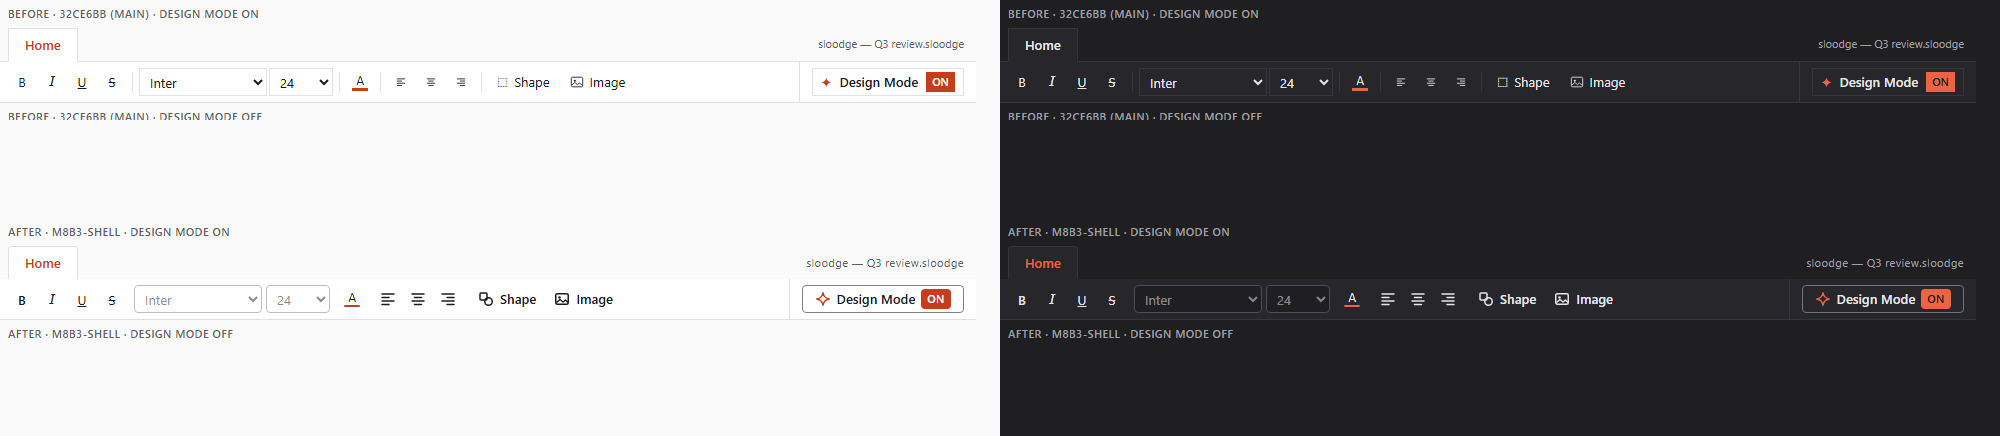
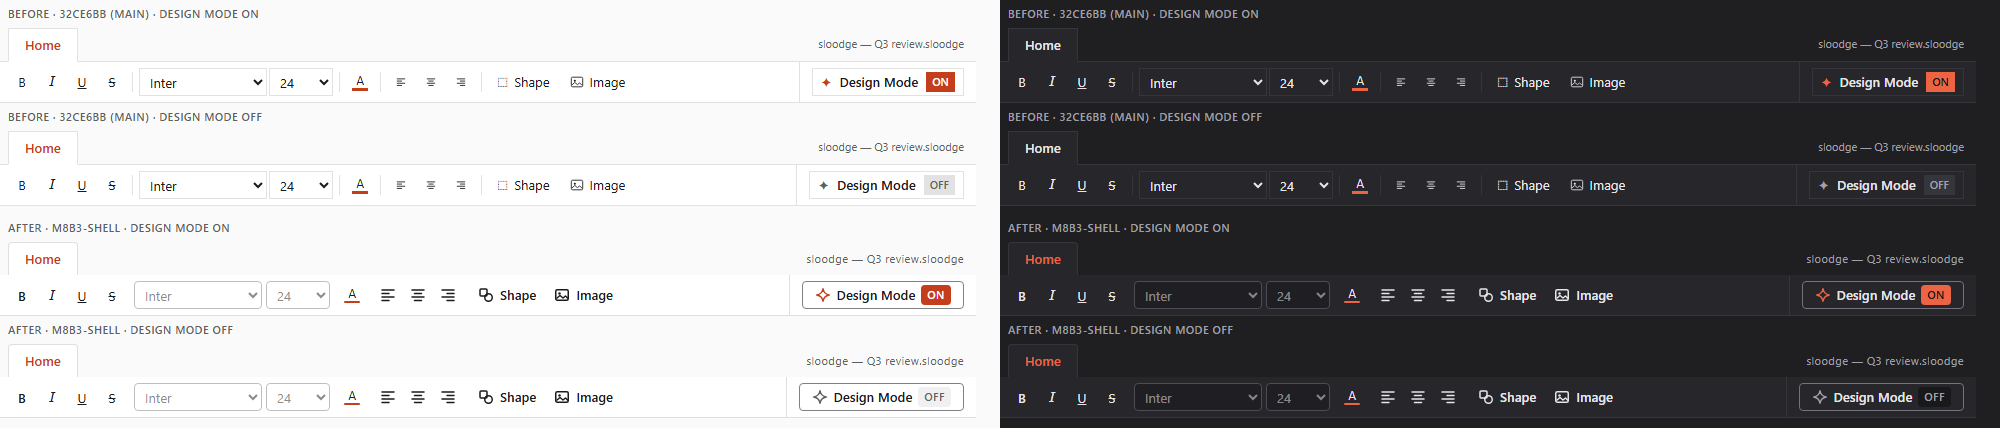
fix: pin the primitive's open tag, render both switch states, pin the wrong-role tokens (M8b.3 surface 2, round 2)
Review r1 of #75 (72, zero blockers) found three majors, none in the shipped UI:

- The re-pointed FormatBar AA row's non-vacuity needle was the bare `ToolbarButton`, which
  FormatBar.tsx's header comment satisfies on its own: with the import and every JSX use removed
  and the comment kept, the row stayed green. The needle is now `<ToolbarButton`; the demonstrated
  shape reds (`1 failed | 14 passed`). The row's comment claims only what the row proves.
- Nothing in `pnpm test` saw a role token in the wrong role: the toolbar row on `bg-surface` and
  the Off badge on `text-line` (~1.2:1 on `surface-sunken`) both passed the suite and `--check`.
  `tests/unit/app-shell-design.test.tsx` renders AppShell and pins each closed finding's element
  by class list (row + strip grounds, Home tab, switch edge + ring, selects, glyph in both states,
  badge in both states), states what it knowingly does not catch, and records five mutations red.
  The file-gate half is not spawned from here: #76 extracts one shared list-driven
  `migrated-files-check.test.ts`; the four files join its `MIGRATED` list when the two PRs are
  both on main (roadmap M8b.3+ carries the note for whoever lands second).
- Every "Design Mode OFF" panel in the media was blank: the 1000x330 capture window came back as
  a 1000x218 viewport on the host, so the second shell on each page fell below the fold. Captured
  at 1000x900 with a forced device scale factor of 1, content height read back via --dump-dom,
[…]

diff --git a/tests/unit/app-shell-design.test.tsx b/tests/unit/app-shell-design.test.tsx
@@ -1,0 +1,189 @@
+/**
+ * @vitest-environment happy-dom
+ *
+ * M8b.3 surface 2 (ui-design-audit.md §4.1, §7 row 2): the app shell stays on the role tokens and
+ * the M8b.2 primitives, and the five findings it closed — T5, U4, U10, U14, U15 — stay closed.
+ *
+ * Two halves, because neither can see the other's regression:
+ *
+ *  - **The file gate, run as a test.** `node scripts/design-inventory.mjs --check` over
+ *    `AppShell.tsx`, `MenuTabStrip.tsx`, `FormatBar.tsx` and `DesignModeToggle.tsx` reds on a
+ *    retired token, a `dark:` twin, a palette colour, an alpha suffix or an arbitrary value coming
+ *    back. It is not spawned from here: #76 extracts one shared, list-driven spawn —
+ *    `tests/unit/design/migrated-files-check.test.ts`, `it.each(MIGRATED)` — and the four files
+ *    join that list when this PR rebases onto it. Until then the gate is command-run only.
+ *  - **The rendered class of each finding's element — this file.** The gate cannot see a *role*
+ *    token that is the wrong role. Review r1 of #75 measured two that pass `--check` AND the whole
+ *    suite: the toolbar row on `bg-surface` instead of `bg-surface-raised` (the tone step that
+ *    replaced the strip's `border-b` is gone, and the Home tab's `bg-surface-raised` has nothing to
+ *    merge into), and the Off badge on `text-line` instead of `text-text-muted` (~1.2:1 on
+ *    `surface-sunken` — an invisible label with every column still 0). So each element is rendered
+ *    and its class list read — the same shape as `chat-panel-design.test.tsx` and
+ *    `focus-ring.test.tsx`.
+ *
+ * ## What this file pins, and what it knowingly does not
+ *
+ * Pinned, one element each: the toolbar row's ground and hairline and the strip's ground (§4.1
+ * item 3); the Home tab's text, ground, missing bottom edge and ring (T5, U10); the switch's edge
+ * and ring (U4, U10); both selects' fill and edge (U4); the glyph's idle and on colour (U14, U15);
+ * the badge's fill and text in both states (T7). A wrong-but-legal token on any of those reds here.
+ *
+ * Not caught here, by design or by limit:
+ *  - the eight glyph buttons and the two worded controls carry the primitives' class strings, which
+ *    are `toolbar-button` / `button` / `focus-ring` tests' business — a `ToolbarButton` swapped for a
+ *    hand-rolled `<button>` with legal tokens passes this file (`semantic-contrast.test.ts`'s
+ *    `<ToolbarButton` needle catches that in FormatBar.tsx; nothing here does);
+ *  - hover / pressed fills (`hover:bg-hover`, `active:bg-pressed`) — owned by the primitives;
+ *  - a wrong-role token on an element this file does not read: the strip's document-name caption
+ *    (`text-text-muted`), the switch's `border-l border-line` divider, `dividerGap()` between the
+ *    groups, the text-colour bar's `bg-accent`;
+ *  - the values: happy-dom applies no stylesheet, so nothing here proves the tokens paint the ratios
+ *    the audit measured — that is the census's business (`--check`, rows 2, 10, 11, 16, 18, 39, 43).
+ *
+ * Mutations, each run on this branch with `--check` printing `RESULT: pass` throughout: row
+ * `bg-surface-raised` → `bg-surface` (1 failed | 5 passed), Off badge `text-text-muted` →
+ * `text-line` (1 | 5), switch `variant="secondary"` → `"subtle"` (1 | 5), Home tab `${FOCUS_RING}`
+ * deleted (1 | 5), idle glyph `text-text-muted` → `text-text` (1 | 5).
+ */
+
+import { cleanup, render, screen, within } from '@testing-library/react'
+import { afterEach, beforeEach, describe, expect, it, vi } from 'vitest'
+import { AppShell } from '../../src/renderer/src/app/AppShell'
+import { useDesignStore } from '../../src/renderer/src/features/design/designStore'
+import { createStarterDeck, useDeckStore } from '../../src/renderer/src/stores/deckStore'
+
+/** Written out, not imported from `focusRing.ts`: the assertion must not track the drift it guards. */
+const RING = [
+  'focus-visible:outline-2',
+  'focus-visible:outline-focus',
+  'focus-visible:outline-offset-2',
+] as const
+
+const NOW = 1_770_000_000_000
+
+const classes = (el: Element | null | undefined): string[] => {
+  expect(el, 'the element under test is mounted').toBeTruthy()
+  return el!.className.split(/\s+/).filter(Boolean)
+}
+
+function mount(enabled: boolean): void {
+  useDesignStore.setState({ enabled, hover: null, selections: [], selection: null, editing: null })
+  render(<AppShell />)
+}
+
+const toolbar = (): HTMLElement => screen.getByRole('toolbar', { name: 'Formatting' })
+const homeTab = (): HTMLElement => screen.getByRole('button', { name: 'Home' })
+const designSwitch = (): HTMLElement => screen.getByRole('switch', { name: /design mode/i })
+/** The glyph is the `currentColor` SVG's wrapper span — the element that carries the colour role. */
+const glyph = (): Element | null => designSwitch().querySelector('svg')?.parentElement ?? null
+
+beforeEach(() => {
+  useDeckStore.setState(createStarterDeck(NOW))
+  // happy-dom cannot fetch a `blob:` URL; the frames are pointed at about:blank (as in app-shell.test.tsx).
+  vi.spyOn(URL, 'createObjectURL').mockImplementation(() => 'about:blank')
+  vi.spyOn(URL, 'revokeObjectURL').mockReturnValue(undefined)
+})
+
+afterEach(() => {
+  cleanup()
+  vi.restoreAllMocks()
+  useDesignStore.setState({
+    enabled: true,
+    hover: null,
+    selections: [],
+    selection: null,
+    editing: null,
+  })
+})
+
+describe('M8b.3 surface 2 — the app shell on the design tokens', () => {
+  it('§4.1 item 3 — the toolbar row is surface-raised on the strip’s surface, one hairline below', () => {
+    mount(true)
+    const row = classes(toolbar().parentElement)
+    expect(
+      row,
+      'the row is the raised surface (§5.4 row 12; census rows 2, 16, 39, 43, 57, 62)',
+    ).toContain('bg-surface-raised')
+    expect(row, 'the row’s one hairline is its bottom edge against the workspace').toEqual(
+      expect.arrayContaining(['border-b', 'border-line']),
+    )
+    const strip = classes(homeTab().parentElement)
+    expect(
+      strip,
+      'the strip is the base surface; the 1.04 / 1.09 tone step does the separating',
+    ).toContain('bg-surface')
+    expect(
+      strip.filter((c) => c.startsWith('border')),
+      'no line between strip and row — the border-b was the finding',
+    ).toEqual([])
+  })
+
+  it('T5 — the Home tab is accent text on the row’s colour with no bottom edge and the one ring', () => {
+    mount(true)
+    const tab = classes(homeTab())
+    expect(
+      tab,
+      'T5: text-accent alone (4.66 dark on surface-raised); the dead dark: twin stays gone',
+    ).toContain('text-accent')
+    expect(tab).toEqual(expect.arrayContaining(['bg-surface-raised', 'border-b-0']))
+    expect(tab, 'S2: -mb-px had nothing left to overlap').not.toContain('-mb-px')
+    for (const part of RING) expect(tab, `U10: the Home tab is missing ${part}`).toContain(part)
+  })
+
+  it('U4 / U10 — the switch is a secondary Button: line-strong edge, focus-visible ring only', () => {
+    mount(true)
+    const klass = classes(designSwitch())
+    expect(
+      klass,
+      'U4: a standalone control on the row has a line-strong edge (3.95 / 3.22)',
+    ).toContain('border-line-strong')
+    expect(
+      klass,
+      'secondary, not subtle: the edge is what makes it a standalone control',
+    ).toContain('border')
+    for (const part of RING) expect(klass, `U10: the switch is missing ${part}`).toContain(part)
+    expect(
+      klass.filter((c) => c.startsWith('focus:')),
+      'U10: `focus:` recipes were the 2.91:1 ring; only focus-visible: survives (R6)',
+    ).toEqual([])
+  })
+
+  it('U4 — the selects are fields with a strong border', () => {
+    mount(true)
+    for (const name of ['Font', 'Font size']) {
+      const klass = classes(screen.getByRole('combobox', { name }))
+      expect(klass, `${name}: bg-field`).toContain('bg-field')
+      expect(klass, `${name}: border-line-strong (3.95 / 3.76 on field)`).toContain(
+        'border-line-strong',
+      )
+    }
+  })
+
+  it('U14 — off: the idle glyph and the badge are text-muted on their grounds', () => {
+    mount(false)
+    expect(designSwitch().getAttribute('aria-checked')).toBe('false')
+    expect(
+      classes(glyph()),
+      'U14: idle glyph is text-text-muted (6.41 / 5.81 on surface-raised)',
+    ).toContain('text-text-muted')
+    const badge = classes(within(designSwitch()).getByText('Off'))
+    expect(badge, 'Off badge text is text-text-muted (5.62 / 6.77 on surface-sunken)').toContain(
+      'text-text-muted',
+    )
+    expect(badge, 'Off badge ground is the sunken well').toContain('bg-surface-sunken')
+  })
+
+  it('U15 / T7 — on: the glyph is accent and the badge is on-fill on accent', () => {
+    mount(true)
+    expect(designSwitch().getAttribute('aria-checked')).toBe('true')
+    expect(
+      classes(glyph()),
+      'U15: on-glyph is text-accent (4.66 dark on surface-raised)',
+    ).toContain('text-accent')
+    const badge = classes(within(designSwitch()).getByText('On'))
+    expect(badge, 'T7: on-fill, never text-white, on the accent fill (5.19 / 5.83)').toEqual(
+      expect.arrayContaining(['bg-accent', 'text-on-fill']),
+    )
+    expect(badge).not.toContain('text-white')
+  })
+})

diff --git a/tests/unit/design/semantic-contrast.test.ts b/tests/unit/design/semantic-contrast.test.ts
@@ -172,13 +172,18 @@ describe('semantic colour tokens', () => {
     // M8b.3 (surface 2) moved the toolbar row's buttons onto `ToolbarButton` / `Button`, whose
     // `hover:bg-hover` is a role pair the `--check` census measures (`hover` on `surface-raised`,
     // 1.18 / 1.24:1). FormatBar.tsx no longer spells a hover of its own, so the "replacement
-    // present" half of this row is the primitive that owns it — a hand-rolled button would have to
-    // put a hover spelling back into this file, where the `bad` needle still watches for it.
+    // present" half of this row is the JSX open tag of the primitive that owns it. The needle is
+    // `<ToolbarButton`, not the bare name: FormatBar.tsx's header names the component in prose, and
+    // review r1 showed the bare needle staying green with every import and JSX use deleted and the
+    // comment kept. This row proves exactly two things — the 1.00:1 spelling is absent from the
+    // file, and the primitive is still mounted in it. A hand-rolled button with some other bad
+    // hover is the suite-run `--check` gate's business (`migrated-files-check.test.ts`, the shared
+    // list #76 extracts — this file joins its list when #75 rebases onto it), not this row's.
     [
       'features/format/FormatBar.tsx',
       'dark:hover:bg-ink-alt',
       '1.00:1 hover on the dark toolbar row',
-      'ToolbarButton',
+      '<ToolbarButton',
     ],
     [
       'features/design/ArrangeBar.tsx',

diff --git a/.claude/plans/init/80-roadmap.md b/.claude/plans/init/80-roadmap.md
@@ -135,7 +135,7 @@ Everything up to here optimizes for *correctness*; this milestone is the one tha
 | M8b.1b | `fix: --contrast resolves light and dark against the palette each mode actually gets` | `currentPalette()` in `scripts/design-inventory.mjs` reads `theme.css` with one flat `--color-<name>: <value>` regex and keeps the **last** declaration of each name, then hands that single palette to both of `contrastTable`'s resolvers. Sound while every token had one value; since M8b.2 (#69) added the 22 dark `:root` overrides, `accent`, `accent-soft`, `danger` and `warning` resolve to their **dark** values in `--contrast`'s light column too. Observed on `774b356`: the `# Current palette` table prints `accent` `#ed6444` (`oklch(0.670 …)`) where `theme.css:49` declares `oklch(0.554 …)`; pair #22 reads `3.09` light where the light value gives `4.97`; #21/#22/#23 print **fail light** where all three pass in both modes and #24 prints **fail both** where only its dark half fails. **Nineteen** pairs move — #10/#11/#12/#21/#22/#23/#24/#48/#49/#50/#51/#52/#53/#54/#56/#57/#73/#74/#79, of which four (#10, #11, #12, #57) are low-alpha `accent` grounds shifting by at most 0.52; the printed total `21 failing` coincidentally matches a light-only run and is not the true **18**, so it cannot be caught by eye. Fix: build a light and a dark palette the way `--check`'s census already does (light = declarations before the `@media (prefers-color-scheme: dark)` block, dark = light overlaid with it) and pass both to `contrastTable`, which already takes two resolvers. Definition of done: `--contrast` prints `80 pairs, 18 failing`, pair #22 reads `4.97 | 5.10 | pass`, and audit §3/§3.1/§1's contrast rows are re-derived from the fixed command rather than from the two-run splice they currently cite. Mutation: swap the light and dark `--color-accent` values in `theme.css` — the two columns must swap with them. Nothing catches this today: `--check`'s census builds two palettes correctly and passes, and no test reads `--contrast` at all ([ui-design-audit.md §10](research/ui-design-audit.md), unguarded list). |
 | M8b.1c | `fix: text-white on bg-accent is 3.23:1 in dark since the token landing` | **Landed.** M8b.2 (#69) gave `--color-accent` a lighter dark value (`oklch(0.67 0.176 34.8)` against light's `oklch(0.554 0.176 34.8)`), so every site still hard-coding `text-white` on an opaque `bg-accent` fell from 5.19:1 to **3.23:1** — the app's worst text pair, below the 4.5:1 AA floor. One-token swap to `text-on-fill`, the role token M8b.2 declared (white in light, `oklch(0.18 0.006 286)` in dark) and `Button.tsx:33` already used: **5.19:1 light, 5.83:1 dark**, AA in both. **Nine sites, not the six §3.1 row T7 listed**: `ChatPanel.tsx:198/225/313`, `DesignModeToggle.tsx:60`, `SettingsDialog.tsx:213`, `AuthTab.tsx:199`, `SlideContextMenu.tsx:169` (`hover:`), `SelectionOverlay.tsx:879`, and `SelectionOverlay.tsx:921/922`, where `text-white` sat on the template literal's static head and `bg-accent` in the interpolated `!isEditing` arm one line below — a single-line grep returns eight and misses the ninth. That badge's foreground moved into each ternary arm rather than swapping the shared one: the `isEditing` arm is `bg-amber-800`, a fixed dark fill in both modes where `on-fill` would be **2.64:1**, so it keeps `text-white`. The low-alpha grounds are deliberately untouched — `bg-accent/5` (`ChatPanel.tsx:305`), `/10` (`ChatPanel.tsx:148`, `PropertyPanel.tsx:288`, `SelectionOverlay.tsx:998`) and `/20` (`FontFamilyControl.tsx:659`) are tints under `shell-fg`/`ink-fg`, not fills. Guard: a new clause in `tests/unit/design/semantic-contrast.test.ts` scans every renderer source for opaque `bg-accent` (excluding `-soft` and `/<alpha>`) and reds when the same class-string segment spells `text-white`, or — for a fill that names no foreground of its own — when a neighbouring line does, which is what catches the split pair; both non-vacuity halves are pinned (fills found > 0, `text-on-fill` pairings >= 10). `CURRENT_PAIRS` #24 becomes `on-fill` on `accent` and #25's site list is re-pointed (`--contrast`: 21 -> 20 failing; the true count moves 18 -> 17 — the light column stays wrong until M8b.1b). The audit was reconciled to the fix in the same PR — §3.1 row T7 is **Landed (M8b.1c)** with its nine sites and **5.19 light / 5.83 dark**; §1's three contrast rows were re-derived (worst text **4.34:1** light, T6 on the canvas mat, now the only failing text pair; **no** dark-only text failure remains, the lowest dark text ratio being 4.67:1); §4.1–§4.4 and §4.8 no longer tell their surface agents to close T7; and the new pair scanner is audit §10 row 26. Light figures were derived by splitting `theme.css` at the `@media (prefers-color-scheme: dark)` boundary and running the script's own colour maths over each palette, because `--contrast`'s light column is wrong until M8b.1b. |
 | M8b.2 | `feat: design tokens + primitives` | Land [ui-design-audit.md §5](research/ui-design-audit.md) as written: the **27 colour roles** (light values in `@theme static { … }` — 4.3.3 emits only the theme variables some compiled utility uses; a plain `@theme` would still resolve correctly at the first build that uses a token, but `static` makes M8b.2's own emitted CSS carry the whole role block, so the PR is reviewable and the dark overrides have something to override before any surface adopts a token; the 22 dark overrides in `:root` under `prefers-color-scheme: dark` — Tailwind emits `var(--color-*)`, verified §5.7, so no component needs a `dark:` twin) **beside** the 14 legacy `shell-*`/`chrome-*`/`ink-*`/`canvas-mat`/`danger-dark`/`warning-dark` tokens, whose names and values do not change (they are deleted by the last M8b.3 PR); the role block **replaces** the `--color-accent` / `--color-accent-soft` declarations **and M4.5's `--color-danger` / `--color-warning`** (light `accent` value unchanged; `accent-soft` re-valued — no consumers; `danger`/`warning` re-valued to the mode-swapping roles — see audit §5.9, which also names `semantic-contrast.test.ts` as a fourth class-coupled test and gives R1 its carve-out), so nothing is declared twice; the spacing / radius / shadow / type / weight / tracking / leading / ease / animate / blur tokens of §5.3 **with their `--*: initial` resets**, so `rounded-lg`, `text-sm`, `font-bold`, `ease-in` and `animate-pulse` stop compiling; `:root` custom properties plus `@utility` for durations and z-index (not v4 `@theme` namespaces — §5.7); `--shadow-ring`/`--shadow-key` so shadows swap by mode; `line-height` on `body`; a `prefers-reduced-motion` block that reduces rather than removes; and the primitives of §5.6 — `Button` (primary/secondary/subtle/danger/link), `ToolbarButton`, `Input`, `Dialog` (scrim, Escape, focus trap + restore, `inert` shell, `overscroll-behavior: contain`), `PanelHeading`, `Chip`, `Notice`, `Divider`-as-gap — each owning its `focus-visible:outline-2 outline-focus outline-offset-2` ring (rule R6). Paste the output of `node scripts/design-inventory.mjs --emit-theme` (the whole block: roles, scales, `:root` vars, dark overrides, `@utility`s) rather than transcribing §5.2/§5.3 — it is emitted already indented and in Prettier's normal form, so `prettier --check` and `--check`'s byte-equality agree; do **not** re-wrap or re-space the values, as `--check` compares them byte for byte (audit §5.8); migrate the `body` rule to `background-color: var(--color-surface); color: var(--color-text)` and delete the dark `body` block (its four `var()`s are retired-token consumers no utility scan sees — audit §4.10). First update `theme-tokens.test.ts`'s parser to read every `@theme` / `@theme static` block brace-aware (it reads only the first `@theme {` today — observed: with the role block appended and `accent*` still in the legacy block it stays green while never seeing a role token; with those two lines removed it reds tests 1 and 2), then extend line 76's namespace assertion to the new namespaces (that test is what catches a typo in a new token *declaration*), and add its **retired-token clause** (§5.4): policed namespaces = declared ∪ `{shell, chrome, ink, canvas}`, accepted tokens = declared only — mutation: delete the 14 legacy declarations with the renderer untouched → the test must red at 328 sites as first measured — **355 `file:line → token` pairs over 128 lines in 18 files on `774b356`** (without the clause it passes, because it derives the namespaces from the surviving declarations). Definition of done: `node scripts/design-inventory.mjs --check --require-landed` prints `Role block: landed — 49/49 declarations byte-equal to the canonical values` and `RESULT: pass`. **`--require-landed` is load-bearing and not optional**: plain `--check` prints `Role block: not landed (0/23 …)` / `RESULT: pass`, exit 0 on a tree where nothing has been done (audit §10 row 24), so the bare exit code is a DoD an empty diff satisfies; `--require-landed` turns that one deliberately-inconclusive branch into `FAIL (1) — --require-landed: the role block has not landed (0/23 new role colours in theme.css) — every gate below it was skipped, so this run confirms nothing about M8b.2`. With the flag, a pass is only possible with every one of the 23 new roles read from an `@theme` block (a role declared anywhere it cannot read, a half-landed block, an unlayered `:root` override, an unparseable value or an unrecognised layout all fail with the reason printed; audit §10 rows 12–19) and means the 49 role declarations are byte-equal to the canonical strings, the 63-pair census passes over the values `theme.css` actually declares, all 60 prescribed utilities compile on the installed Tailwind and all 14 reset-killed spellings do not (observed on the emitted block: `49/49`, `63 pairs, 0 failing`, `60/60`, `14/14`, `pass`; each half demonstrated red in audit §10 rows 13 and 16–19); every primitive is keyboard-focusable with a visible ring in both modes; no status is conveyed by colour alone; `pnpm build` green with no component migrated yet (tokens land dark, surfaces adopt them in M8b.3). |
-| M8b.3+ | `feat: polish <surface>` — **parallel subagents, one surface each** | Nine surfaces, one subagent and one PR each, in the order of [ui-design-audit.md §7](research/ui-design-audit.md) (chat + no-key gate → app shell → inspector + colour controls + arrange bar → settings dialog + auth + budget → canvas + overlay + notice → rail + context menu → status bar → PPTX dialog → present mode); each executes the numbered work list in its §4 subsection, nothing more. Rows 1–4 may start the moment M8b.2 merges; none depends on another. **M8b.2 opened one new AA failure and M8b.1c (#74) closed it before the fan-out started — do not redo it**: `--color-accent` swaps to `oklch(0.67 …)` in dark, so the **nine** sites hard-coding `text-white` on `bg-accent` (`ChatPanel.tsx:198/225/313`, `SettingsDialog.tsx:213`, `AuthTab.tsx:199`, `SlideContextMenu.tsx:169`, `DesignModeToggle.tsx:60`, `SelectionOverlay.tsx:879` and the size/rotation badge) had fallen to **3.23:1** in dark from 5.19 — the app's worst text pair. All nine now read `text-on-fill`: **5.19 light / 5.83 dark**, and audit §3.1 row T7 is marked **Landed (M8b.1c)**. `Button.tsx:33` already used the token. Nothing is left here for a surface PR, but do not regress it: five of the nine surfaces own one of those sites (chat 4.4, app shell 4.1 via `DesignModeToggle`, settings+auth 4.8, canvas+overlay 4.3, rail context menu 4.2), and `tests/unit/design/semantic-contrast.test.ts` (audit §10 row 26) reds if an opaque `bg-accent` is painted `text-white` again — including the split-across-two-lines shape a one-line grep cannot see. Its `paired >= 10` floor falls **legitimately** when a surface moves these buttons onto `<Button>`, which spells the token inside the primitive: lower the floor then, do not delete the clause. The audit's worst text pair is now T6, `chrome-muted` on the canvas mat at **4.34:1** light, and **no** text pair fails in dark. **Unblocked on `774b356`**: the audit's citations were reconciled after five merges moved them (#68, #66, #67, #71, #69, #70) — 21 entries moved, 13 had their own text edited, 5 described code that no longer exists — and `--verify-doc` printed `RESULT: pass`, exit 0. **Reconciled again on `815bc61` by M8b.1c (#74)**, which is the documented workflow, not a defect: the swap edited nine cited lines and shifted four more, `--verify-doc` printed `RESULT: FAIL (14)`, the prose that cited those nine was corrected **before** §11 was re-emitted, and it now prints `RESULT: pass — §1 matches the tree and all 314 cited lines still carry the text §11 records`, exit 0 (146 manifest entries, unchanged: `SelectionOverlay.tsx`'s `:922` re-pointed to `:926`). Round 2 additionally re-pointed **fourteen citations that were wrong when they were written** (a `>`, a `*/`, a `name,` — see audit §10) and corrected §3.1 T7 from six sites to **nine**; round 3 re-pointed **three more** that round 2's trivial-excerpt heuristic structurally could not see (a `//` comment line and a `function X({` opener) and replaced that heuristic in §10 with the broader rule that finds them — flag any manifest entry whose cited line carries no class string, CSS declaration or assertion at all (13 of 147 entries here, all 13 legitimate). It had printed `FAIL (40)`, and `FAIL (10)` as far back as the audit's own merge commit `a92337a`. Rules for every PR: **run `node scripts/design-inventory.mjs --verify-doc` first** — it fails if the audit's §1 measurements no longer match the tree, if any cited `file:line` no longer carries the text the audit's §11 manifest records for it, or if a citation cannot be resolved at all (a renamed or deleted file), which is how a rebase silently invalidates the work list (audit §10 row 23). A line-number bounds check would not do: M3.13 added twelve lines above nine `SlideCanvas.tsx` citations and the length-only version of this gate still printed `RESULT: pass`. **When it reds because this PR — or a sibling that merged first — legitimately moved a cited line**, the recovery is `node scripts/design-inventory.mjs --emit-citations`: replace §11's block with its stdout as a whole (the output is byte-identical to the block, `<!-- BEGIN … -->` / ```` ```text ```` wrapper included, so it is a whole-block replace with no hand-editing). Regenerate *second*, not first: the failure prints the recorded and the current text of every moved line, and §11's manifest goes green whether or not the §4 work list that cites those lines is still true — so read the moved lines and correct the work list for the surface that moved before pasting. These nine PRs edit the cited files by construction, so every PR after the first will meet this red on its required first step; adopt the M8b.2 primitives rather than raw classes; obey R1–R6 (§5.2) — no `dark:` variant on a role token, no palette colour, no invented alpha, muted text never on the mat, one focus ring; apply the §5.4 migration map so the PR's files end with **zero** legacy tokens, `dark:` colour variants, arbitrary values or palette colours (`node scripts/design-inventory.mjs --check <files touched>` must print `RESULT: pass` — its six gate columns `legacy`, `dark:`, arbitrary, palette, alpha and unknown are counted on every utility-shaped token behind any variant chunk Tailwind v4 spells (`aria-*:`, `data-[…]:`, `rtl:`, the arbitrary variant `[&_svg]:`, the child/descendant `*:`/`**:` and container queries `@md:` — two residual limits named in audit §10's unguarded list), arbitrary alphas and the `bg-(--color-x)` shorthand included, classified or not; a path it did not scan, a directory with no scanned file, or a `.ts` file is a failure, never a pass; observed on `main`: appending `dark:bg-surface-raised text-red-600 bg-accent/10 duration-[150ms] bg-surfce bg-chrome` to one class string fails all six columns, audit §10 rows 5–9); presentation-only diff — the three class-coupled tests named in §4 (`slide-canvas-dock` `h-64`, `thumbnail-rail` `border-t-accent`/`opacity-40`, `status-bar-meter` `/amber\|red/`) may move to `data-*` state attributes in the same PR with the mutation recorded, every other test unchanged and green; Design-Mode byte-span/undo invariants untouched; before/after PNG + GIF in the body (see the UI-PR media convention); the M8b.0 §3.1 rejections stay bare (selection, drop indicator, inspector mount, context menu, canvas fit, toolbar press). Behaviour fixes that ride with a surface (the `PresentSurface` remount, Settings arrow keys, `inert` on present controls) are separate commits reviewed on their own. **The last PR to merge deletes the 14 retired tokens** (`shell-*`, `chrome-*`, `ink-*`, `canvas-mat`, `danger-dark`, `warning-dark` — `accent`/`accent-soft` are canonical and stay) from `theme.css`, gated by two checks that work today — not by the shipped `theme-tokens.test.ts`, which derives its policed namespaces from the declared tokens and goes blind to a deleted namespace (mutation-verified: on `a92337a`, 328 survivors and a green run; re-measured on `774b356` the un-claused test still reds at only 3): `node scripts/design-inventory.mjs --check --final` prints `RESULT: pass` (zero references to retired tokens across utilities *and* `var()` consumers — 332 on `a92337a`, four of them `theme.css`'s own `body` rule; **354 on `774b356`**, all of them `.tsx` utilities now that M8b.2 migrated `body` — `FAIL (1) — --final: 354 references to retired tokens remain (utilities and var() consumers)`), and the retired-token clause M8b.2 added to the test reds on any reference. M8b.4's check (5) then keeps it that way. |
+| M8b.3+ | `feat: polish <surface>` — **parallel subagents, one surface each** | Nine surfaces, one subagent and one PR each, in the order of [ui-design-audit.md §7](research/ui-design-audit.md) (chat + no-key gate → app shell → inspector + colour controls + arrange bar → settings dialog + auth + budget → canvas + overlay + notice → rail + context menu → status bar → PPTX dialog → present mode); each executes the numbered work list in its §4 subsection, nothing more. Rows 1–4 may start the moment M8b.2 merges; none depends on another. **M8b.2 opened one new AA failure and M8b.1c (#74) closed it before the fan-out started — do not redo it**: `--color-accent` swaps to `oklch(0.67 …)` in dark, so the **nine** sites hard-coding `text-white` on `bg-accent` (`ChatPanel.tsx:198/225/313`, `SettingsDialog.tsx:213`, `AuthTab.tsx:199`, `SlideContextMenu.tsx:169`, `DesignModeToggle.tsx:60`, `SelectionOverlay.tsx:879` and the size/rotation badge) had fallen to **3.23:1** in dark from 5.19 — the app's worst text pair. All nine now read `text-on-fill`: **5.19 light / 5.83 dark**, and audit §3.1 row T7 is marked **Landed (M8b.1c)**. `Button.tsx:33` already used the token. Nothing is left here for a surface PR, but do not regress it: five of the nine surfaces own one of those sites (chat 4.4, app shell 4.1 via `DesignModeToggle`, settings+auth 4.8, canvas+overlay 4.3, rail context menu 4.2), and `tests/unit/design/semantic-contrast.test.ts` (audit §10 row 26) reds if an opaque `bg-accent` is painted `text-white` again — including the split-across-two-lines shape a one-line grep cannot see. Its `paired >= 10` floor falls **legitimately** when a surface moves these buttons onto `<Button>`, which spells the token inside the primitive: lower the floor then, do not delete the clause. The audit's worst text pair is now T6, `chrome-muted` on the canvas mat at **4.34:1** light, and **no** text pair fails in dark. **Unblocked on `774b356`**: the audit's citations were reconciled after five merges moved them (#68, #66, #67, #71, #69, #70) — 21 entries moved, 13 had their own text edited, 5 described code that no longer exists — and `--verify-doc` printed `RESULT: pass`, exit 0. **Reconciled again on `815bc61` by M8b.1c (#74)**, which is the documented workflow, not a defect: the swap edited nine cited lines and shifted four more, `--verify-doc` printed `RESULT: FAIL (14)`, the prose that cited those nine was corrected **before** §11 was re-emitted, and it now prints `RESULT: pass — §1 matches the tree and all 314 cited lines still carry the text §11 records`, exit 0 (146 manifest entries, unchanged: `SelectionOverlay.tsx`'s `:922` re-pointed to `:926`). Round 2 additionally re-pointed **fourteen citations that were wrong when they were written** (a `>`, a `*/`, a `name,` — see audit §10) and corrected §3.1 T7 from six sites to **nine**; round 3 re-pointed **three more** that round 2's trivial-excerpt heuristic structurally could not see (a `//` comment line and a `function X({` opener) and replaced that heuristic in §10 with the broader rule that finds them — flag any manifest entry whose cited line carries no class string, CSS declaration or assertion at all (13 of 147 entries here, all 13 legitimate). It had printed `FAIL (40)`, and `FAIL (10)` as far back as the audit's own merge commit `a92337a`. Rules for every PR: **run `node scripts/design-inventory.mjs --verify-doc` first** — it fails if the audit's §1 measurements no longer match the tree, if any cited `file:line` no longer carries the text the audit's §11 manifest records for it, or if a citation cannot be resolved at all (a renamed or deleted file), which is how a rebase silently invalidates the work list (audit §10 row 23). A line-number bounds check would not do: M3.13 added twelve lines above nine `SlideCanvas.tsx` citations and the length-only version of this gate still printed `RESULT: pass`. **When it reds because this PR — or a sibling that merged first — legitimately moved a cited line**, the recovery is `node scripts/design-inventory.mjs --emit-citations`: replace §11's block with its stdout as a whole (the output is byte-identical to the block, `<!-- BEGIN … -->` / ```` ```text ```` wrapper included, so it is a whole-block replace with no hand-editing). Regenerate *second*, not first: the failure prints the recorded and the current text of every moved line, and §11's manifest goes green whether or not the §4 work list that cites those lines is still true — so read the moved lines and correct the work list for the surface that moved before pasting. These nine PRs edit the cited files by construction, so every PR after the first will meet this red on its required first step; adopt the M8b.2 primitives rather than raw classes; obey R1–R6 (§5.2) — no `dark:` variant on a role token, no palette colour, no invented alpha, muted text never on the mat, one focus ring; apply the §5.4 migration map so the PR's files end with **zero** legacy tokens, `dark:` colour variants, arbitrary values or palette colours (`node scripts/design-inventory.mjs --check <files touched>` must print `RESULT: pass` — its six gate columns `legacy`, `dark:`, arbitrary, palette, alpha and unknown are counted on every utility-shaped token behind any variant chunk Tailwind v4 spells (`aria-*:`, `data-[…]:`, `rtl:`, the arbitrary variant `[&_svg]:`, the child/descendant `*:`/`**:` and container queries `@md:` — two residual limits named in audit §10's unguarded list), arbitrary alphas and the `bg-(--color-x)` shorthand included, classified or not; a path it did not scan, a directory with no scanned file, or a `.ts` file is a failure, never a pass; observed on `main`: appending `dark:bg-surface-raised text-red-600 bg-accent/10 duration-[150ms] bg-surfce bg-chrome` to one class string fails all six columns, audit §10 rows 5–9); presentation-only diff — the three class-coupled tests named in §4 (`slide-canvas-dock` `h-64`, `thumbnail-rail` `border-t-accent`/`opacity-40`, `status-bar-meter` `/amber\|red/`) may move to `data-*` state attributes in the same PR with the mutation recorded, every other test unchanged and green; Design-Mode byte-span/undo invariants untouched; before/after PNG + GIF in the body (see the UI-PR media convention); the M8b.0 §3.1 rejections stay bare (selection, drop indicator, inspector mount, context menu, canvas fit, toolbar press). Behaviour fixes that ride with a surface (the `PresentSurface` remount, Settings arrow keys, `inert` on present controls) are separate commits reviewed on their own. **The last PR to merge deletes the 14 retired tokens** (`shell-*`, `chrome-*`, `ink-*`, `canvas-mat`, `danger-dark`, `warning-dark` — `accent`/`accent-soft` are canonical and stay) from `theme.css`, gated by two checks that work today — not by the shipped `theme-tokens.test.ts`, which derives its policed namespaces from the declared tokens and goes blind to a deleted namespace (mutation-verified: on `a92337a`, 328 survivors and a green run; re-measured on `774b356` the un-claused test still reds at only 3): `node scripts/design-inventory.mjs --check --final` prints `RESULT: pass` (zero references to retired tokens across utilities *and* `var()` consumers — 332 on `a92337a`, four of them `theme.css`'s own `body` rule; **354 on `774b356`**, all of them `.tsx` utilities now that M8b.2 migrated `body` — `FAIL (1) — --final: 354 references to retired tokens remain (utilities and var() consumers)`), and the retired-token clause M8b.2 added to the test reds on any reference. M8b.4's check (5) then keeps it that way. **Guard shape — mandatory for surfaces 3–9, set by surfaces 1 and 2 (#76, #75):** two suite-run halves per surface. (a) The file gate: **one shared, list-driven test**, `tests/unit/design/migrated-files-check.test.ts` — `it.each(MIGRATED)` over the migrated file paths with a single `node scripts/design-inventory.mjs --check <list>` spawn asserting every gate column `0` and `RESULT: pass` (extracted by #76 from its `chat-panel-check.test.ts`; a `.ts` file because `.tsx` tests are typechecked under the web tsconfig, which has no Node types). Each surface PR **appends its files to `MIGRATED`** — never a per-surface copy of the spawn. (b) `<surface>-design.test.tsx`, which renders each closed finding's element and pins its class list, states which findings it pins and which shapes it knowingly does not catch, and records its mutations red — because the column check cannot see a role token in the *wrong* role (#75 r1 measured it: the Off badge on `text-line` is ~1.2:1 on `surface-sunken`, the toolbar row on `bg-surface` loses the tone step, and both pass `--check` with every column 0 and `pnpm test` green). Templates: `tests/unit/chat/chat-panel-design.test.tsx` (surface 1), `tests/unit/app-shell-design.test.tsx` (surface 2). **Note for whoever lands second of #75 / #76:** `migrated-files-check.test.ts` did not exist on `main` or on `m8b3-chat-panel` when #75's round 2 was written (2026-09-11), so #75 ships only half (b); its four files (`app/AppShell.tsx`, `features/format/MenuTabStrip.tsx`, `features/format/FormatBar.tsx`, `features/design/DesignModeToggle.tsx`) must be appended to `MIGRATED` by whichever of the two rebases onto the other. M8b.4 generalises (a) over every renderer file and retires the list; the `-design` pins stay. |
 | M8b.4 | `test: visual consistency check` | Turn `scripts/design-inventory.mjs --check` into a **suite-run test over every renderer file** (today it runs only when someone runs it, and only on the files named), so a regression after a surface has migrated fails `pnpm test`: the allow-list check — every colour-shaped utility and every `var(--color-*)` names a declared token, a retired token, a palette colour or `transparent|current|inherit` — plus the `dark:`, arbitrary, palette (`bg-red-500`, bare `white`/`black` outside `hud`/`scrim`/`on-fill`), alpha (`/N` on a role token other than `hud-fg/70`) and retired-token columns, all required to be 0 once M8b.3 is complete; and add what `--check` does not scan: (a) raw literals (`#hex`, `rgb()`, `oklch()`) in class strings and `style` props, (b) the numeric spellings the `--*: initial` resets cannot kill — `leading-N`, `duration-N`, `z-N`, `ease-linear`. Explicit allow-list with a reason per entry (`-mb-px` on the Home tab; viewport clamps `max-w-[90vw]`/`max-h-[85vh]` on dialogs; `slide://` URL strings). Must red under eight recorded mutations, each observable in the per-file row or the raw-literal list: `text-[13px]`, `bg-red-500`, a raw `rgba()` shadow, `dark:bg-ink-alt` in a migrated file, `bg-chrome` after the retired block is gone, `bg-surfce`, `bg-accent/10`, `leading-4`. The failure message names file, line and the canonical replacement from [ui-design-audit.md §5.4](research/ui-design-audit.md). |
 | M8b.4a | `fix: aria-disabled state on the toolbar primitives` | Second half of [ui-design-audit.md §4.1](research/ui-design-audit.md) item 5, deferred by M8b.3 surface 2: the eleven `aria-disabled` toolbar stubs look and hover like live buttons because `ToolbarButton` and `Button` own their class strings and draw a `disabled:` state only — a surface cannot add an `aria-disabled:` treatment, and the stubs stay `aria-disabled` rather than `disabled` on purpose (M0.4: focusable, discoverable). Add `aria-disabled:opacity-50 aria-disabled:cursor-default aria-disabled:hover:bg-transparent aria-disabled:active:bg-transparent` (or the `text-text-muted` treatment §4.1 names) to both primitives' `BASE`, a `toolbar-button.test.tsx` row that renders `aria-disabled` and asserts the classes, and the mutation. Until it lands the stubs' `title` ("— not available yet") is the only dead-control signal. |
 

diff --git a/.claude/plans/init/research/ui-design-audit.md b/.claude/plans/init/research/ui-design-audit.md
@@ -1184,7 +1184,7 @@ tests/unit/design/theme-tokens.test.ts` reds tests 1 and 2 (`accent-soft` no lon
 
 - A visible focus ring on every primitive — no command until M8b.2 writes the RTL test (`:focus-visible` computed `outline-color` equals `--color-focus`; mutation: remove the class from one primitive).
 - Raw literals (`#hex`, `rgb()`, `oklch()`) in class strings or `style` props, and numeric `leading-N` / `duration-N` / `z-N` / `ease-linear` — nothing until M8b.4 (§9); the inventory lists raw literals but nothing fails on them.
-- `--check` runs under `pnpm test` only for the files `tests/unit/design/migrated-files-check.test.ts` lists (row 27 — the migrated surfaces, one path appended per PR); for every file not yet on that list, until M8b.4 turns it into a suite test over the whole renderer, a regression is caught by review, not by `pnpm test`.
+- `--check` runs under `pnpm test` only for the files `tests/unit/design/migrated-files-check.test.ts` lists (row 27 — the migrated surfaces, one path appended per PR; surface 2's four joined the list in #75), and its columns cannot see a role token in the wrong role — that half is pinned per surface in its `<surface>-design.test.tsx` (`chat-panel-design.test.tsx`, `app-shell-design.test.tsx`); for every file not yet on that list, until M8b.4 turns it into a suite test over the whole renderer, a regression is caught by review, not by `pnpm test`.
 - **Variant spellings the chunk grammar still does not reach.** `--check` parses Tailwind v4's chunk shapes — `name`, `name-[…]`, `name-(…)`, `name/alias`, `[&_svg]`, `*`, `**`, `@md`, `@[400px]` — and a chain it cannot consume in front of a colour-shaped utility is counted `unknown` rather than skipped, so the failure mode is a red with an imprecise reason, never a silent zero. Tailwind's important modifier is stripped on either side, so `bg-chrome!` and `!bg-chrome` count like the bare utility. Two known limits remain: a variant containing a character the token splitter treats as a delimiter (`[&>*]:`, because of the `>`) is split and reported as `unknown` on the fragment rather than attributed to the file's `legacy`/`palette` column — a red with an imprecise reason, for both the token-named and the arbitrary-valued tail; and an arbitrary variant that *means* dark without spelling it `dark:` (`[@media(prefers-color-scheme:dark)]:bg-ink`) moves `legacy` but not the `dark:` column, so R1 is enforced there by review, not by the gate.
 - **A role value that drifts in hue or chroma while still clearing its contrast floor.** `**63 pairs, 0 failing in at least one mode.**` is the headline line of `--check`'s output and reads as a value guarantee; it is not one. The census is a contrast FLOOR check, and byte-equality against the canonical strings is the sole guard on hue and chroma. Measured in M8b.2 review round 1, with byte-equality removed: dark `--color-surface` moved from `oklch(0.241 0.006 286)` to `oklch(0.241 0.14 130)` — a bright green panel — still prints `63 pairs, 0 failing`, and swapping the dark `danger` and `success` values so danger paints green and success paints red also prints `63 pairs, 0 failing`. Only the byte check saw either. Note also that byte-equality is by construction circular against a `PROPOSED_LIGHT` / `PROPOSED_DARK` edit in the script itself — §5.8 prescribes exactly that route for a value change, and nothing independent checks it.
 - **A SECOND `@theme static` block appended after the canonical one.** `theme-tokens.test.ts` asserts `theme.css` *contains* `--emit-theme`'s output, and containment is exact for anything altered strictly inside that block — M8b.2 review round 2 confirmed all five corruptions red, and a generator-only edit reds too. But `toContain` is not exclusivity: appending a second `@theme static { --spacing-control: 4rem; --radius-overlay: 2rem; … }` leaves the assertion at 4 passed, `--check --require-landed` at `RESULT: pass`, 2064 design+ui tests green, oxlint and Prettier clean — and `pnpm build` emits the mutated values into the shipped CSS. Colour redeclarations in that construct *are* caught (`48/49`, `63 pairs, 3 failing`, `FAIL (2)`), so the hole is the non-colour tokens only: spacing, radius, duration, easing, z-index and the `@utility` rules.
